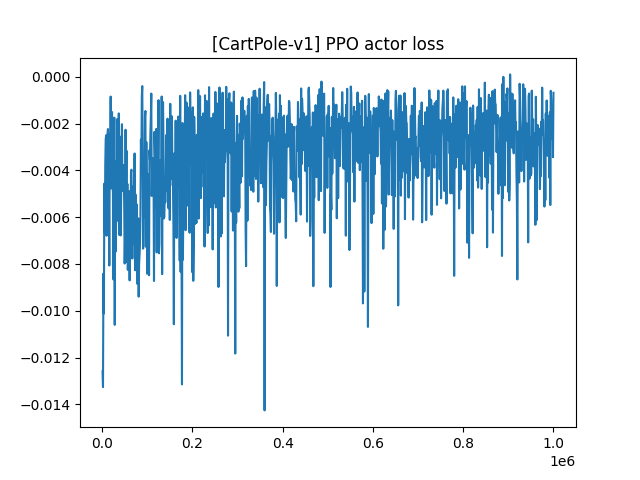
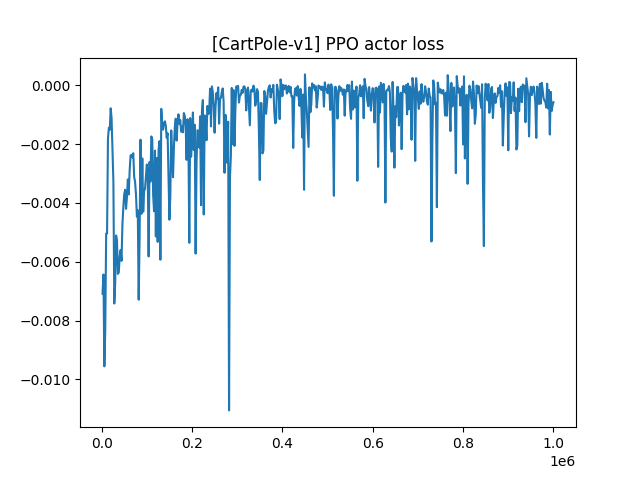
adjust hyperparameters

diff --git a/algos/discrete_ppo.py b/algos/discrete_ppo.py
@@ -5,7 +5,6 @@ import models.params
 from models.params import DynParam
 
 import flax
-import flax.linen as nn
 from flax.training.train_state import TrainState
 import functools
 import gymnax
@@ -35,14 +34,14 @@ ENV_CONFIG = {
         "critic_model": Critic,
         "critic_params": [(30, 15)],
         "hyperparams": Hyperparams(
-            num_updates=1000,
-            batch_count=50,
-            rollout_len=1000,
+            num_updates=500,
+            batch_count=25,
+            rollout_len=2000,
             discount_rate=0.99,
-            advantage_rate=0.95,
-            num_minibatches=4,
-            update_epochs=6,
-            actor_learning_rate=0.002,
+            advantage_rate=0,
+            num_minibatches=2,
+            update_epochs=10,
+            actor_learning_rate=0.0001,
             actor_clip=0.2,
             critic_learning_rate=0.002,
             adam_eps=1e-5,
